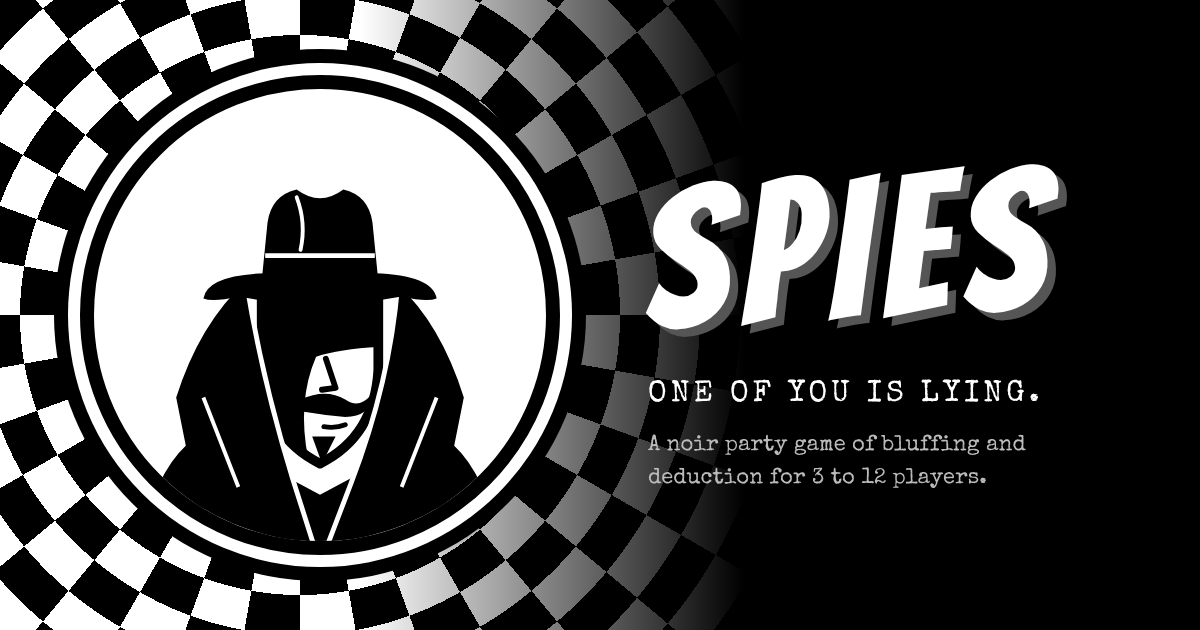
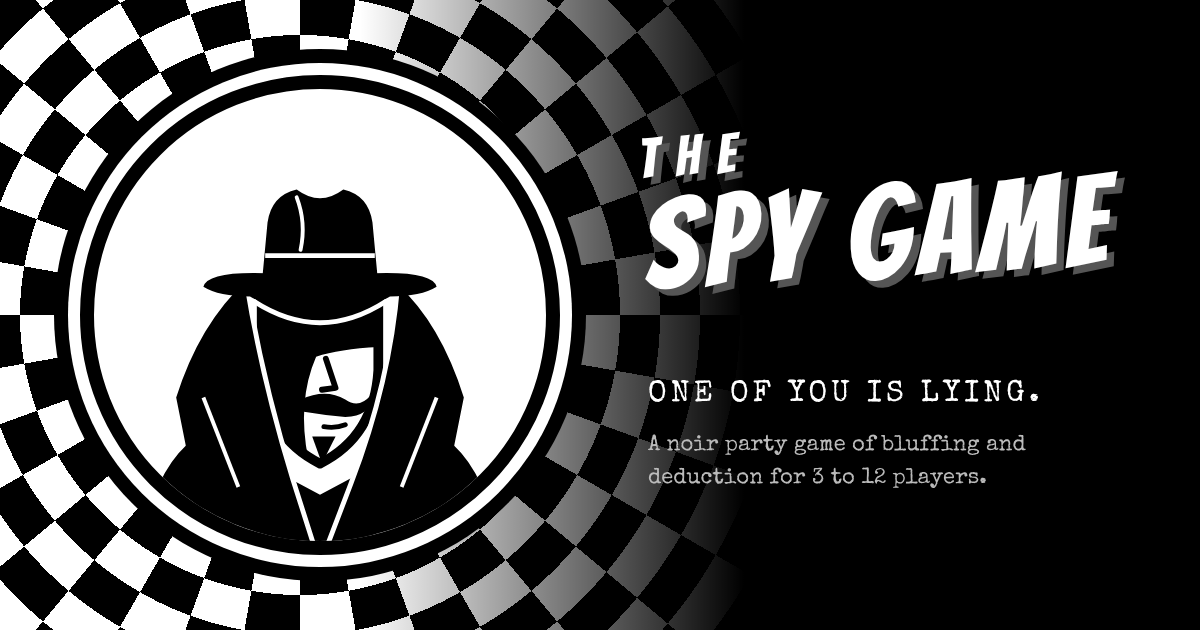
Rename the game to The Spy Game
Claude-Session: https://claude.ai/code/session_012KgB2T6A61Y1AD2Dqy3ECV

diff --git a/index.html b/index.html
@@ -3,8 +3,8 @@
 <head>
 <meta charset="UTF-8">
 <meta name="viewport" content="width=device-width, initial-scale=1.0, maximum-scale=1, user-scalable=no, viewport-fit=cover">
-<title>Spies</title>
-<meta name="description" content="Spies: a noir party game of bluffing and deduction. Everyone gets the same secret location, except the spy. Play online with a lobby code or pass one phone around.">
+<title>The Spy Game</title>
+<meta name="description" content="The Spy Game: a noir party game of bluffing and deduction. Everyone gets the same secret location, except the spy. Play online with a lobby code or pass one phone around.">
 <meta name="theme-color" content="#000000">
 <meta name="color-scheme" content="dark">
 <link rel="canonical" href="https://spy.haydenharms.com/">
@@ -14,19 +14,19 @@
 <link rel="apple-touch-icon" href="/icons/apple-touch-icon.png">
 <meta name="apple-mobile-web-app-capable" content="yes">
 <meta name="mobile-web-app-capable" content="yes">
-<meta name="apple-mobile-web-app-title" content="Spies">
+<meta name="apple-mobile-web-app-title" content="The Spy Game">
 <meta name="apple-mobile-web-app-status-bar-style" content="black-translucent">
 <meta property="og:type" content="website">
-<meta property="og:site_name" content="Spies">
-<meta property="og:title" content="Spies">
+<meta property="og:site_name" content="The Spy Game">
+<meta property="og:title" content="The Spy Game">
 <meta property="og:description" content="One of you is a spy. A noir party game of bluffing and deduction for 3 to 12 players.">
 <meta property="og:url" content="https://spy.haydenharms.com/">
 <meta property="og:image" content="https://spy.haydenharms.com/icons/og.png">
 <meta property="og:image:width" content="1200">
 <meta property="og:image:height" content="630">
-<meta property="og:image:alt" content="A noir comic spy in a top hat and overcoat, with the word Spies">
+<meta property="og:image:alt" content="A noir comic spy in a fedora and trench coat, with the words The Spy Game">
 <meta name="twitter:card" content="summary_large_image">
-<meta name="twitter:title" content="Spies">
+<meta name="twitter:title" content="The Spy Game">
 <meta name="twitter:description" content="One of you is a spy. A noir party game of bluffing and deduction.">
 <meta name="twitter:image" content="https://spy.haydenharms.com/icons/og.png">
 <link rel="preload" href="/fonts/bangers.woff2" as="font" type="font/woff2" crossorigin>
@@ -198,7 +198,7 @@
   .emblem svg{position:absolute;left:50%;bottom:-8px;width:114px;transform:translateX(-50%);}
   .wordmark{
     font-family:var(--display);
-    font-size:78px;
+    font-size:62px;
     line-height:.9;
     letter-spacing:.05em;
     color:#000;
@@ -206,6 +206,7 @@
     font-weight:normal;
     text-shadow:4px 4px 0 var(--grey-light);
   }
+  .wordmark .the, .intro-title .the{display:block;font-size:.42em;letter-spacing:.3em;margin-bottom:.06em;}
   .tagline{font-family:var(--mono);font-size:12px;letter-spacing:.2em;color:var(--grey);margin-top:2px;}
 
   /* pass screen */
@@ -382,7 +383,9 @@
   .intro-title{
     position:absolute; left:50%; bottom:max(13%, 70px);
     font-family:var(--display);
-    font-size:min(24vmin, 130px);
+    font-size:min(16vmin, 96px);
+    white-space:nowrap;
+    text-align:center;
     letter-spacing:.06em;
     line-height:1;
     color:#fff;
@@ -400,7 +403,7 @@
     font-family:var(--mono); font-size:11px; letter-spacing:.24em; color:#888;
   }
   @media (min-aspect-ratio: 1/1){
-    .intro-title{bottom:5%; font-size:min(15vmin, 110px);}
+    .intro-title{bottom:7%; font-size:min(11vmin, 80px);}
   }
   @media (prefers-reduced-motion: reduce){
     .spot, .intro-title, .emblem::before{animation:none !important;}
@@ -518,7 +521,7 @@
     <use href="#spy" x="320" y="288" width="160" height="192"/>
   </svg>
   <div class="spot"></div>
-  <div class="intro-title">SPIES</div>
+  <div class="intro-title"><span class="the">THE</span>SPY GAME</div>
   <div class="intro-skip">TAP TO SKIP</div>
 </div>
 
@@ -531,7 +534,7 @@
       <div class="screen active" id="screen-home">
         <div class="masthead">
           <div class="emblem"><svg viewBox="0 0 200 240" aria-hidden="true"><use href="#spy"/></svg></div>
-          <h1 class="wordmark">SPIES</h1>
+          <h1 class="wordmark"><span class="the">THE</span>SPY GAME</h1>
           <div class="tagline">ONE OF YOU IS LYING</div>
         </div>
         <p class="sub">Everyone but one gets the same location and a role there. The spy gets nothing, and has to bluff their way through the questions.</p>

diff --git a/sw.js b/sw.js
@@ -1,6 +1,6 @@
-// Spies service worker: makes the game installable and lets pass & play work offline.
+// The Spy Game service worker: makes the game installable and lets pass & play work offline.
 // Online lobbies (/api) always go straight to the network.
-const CACHE = 'spies-v6';
+const CACHE = 'spies-v7';
 const CORE = ['/', '/manifest.webmanifest', '/fonts/bangers.woff2', '/fonts/special-elite.woff2', '/icons/icon-192.png'];
 
 self.addEventListener('install', e => {
